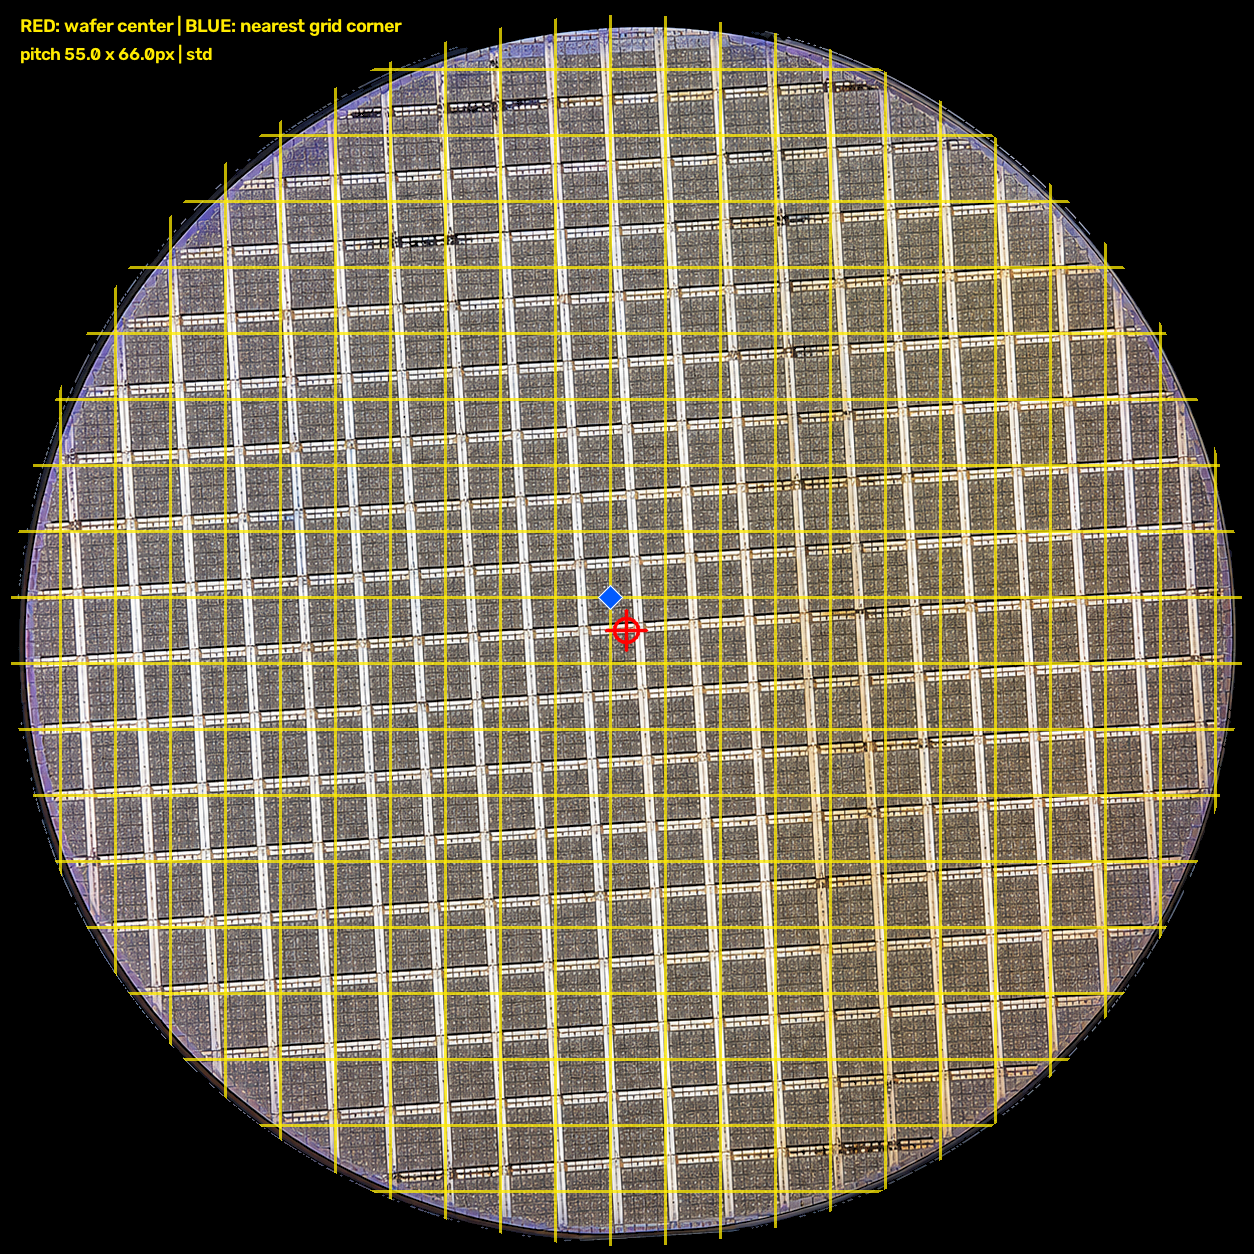
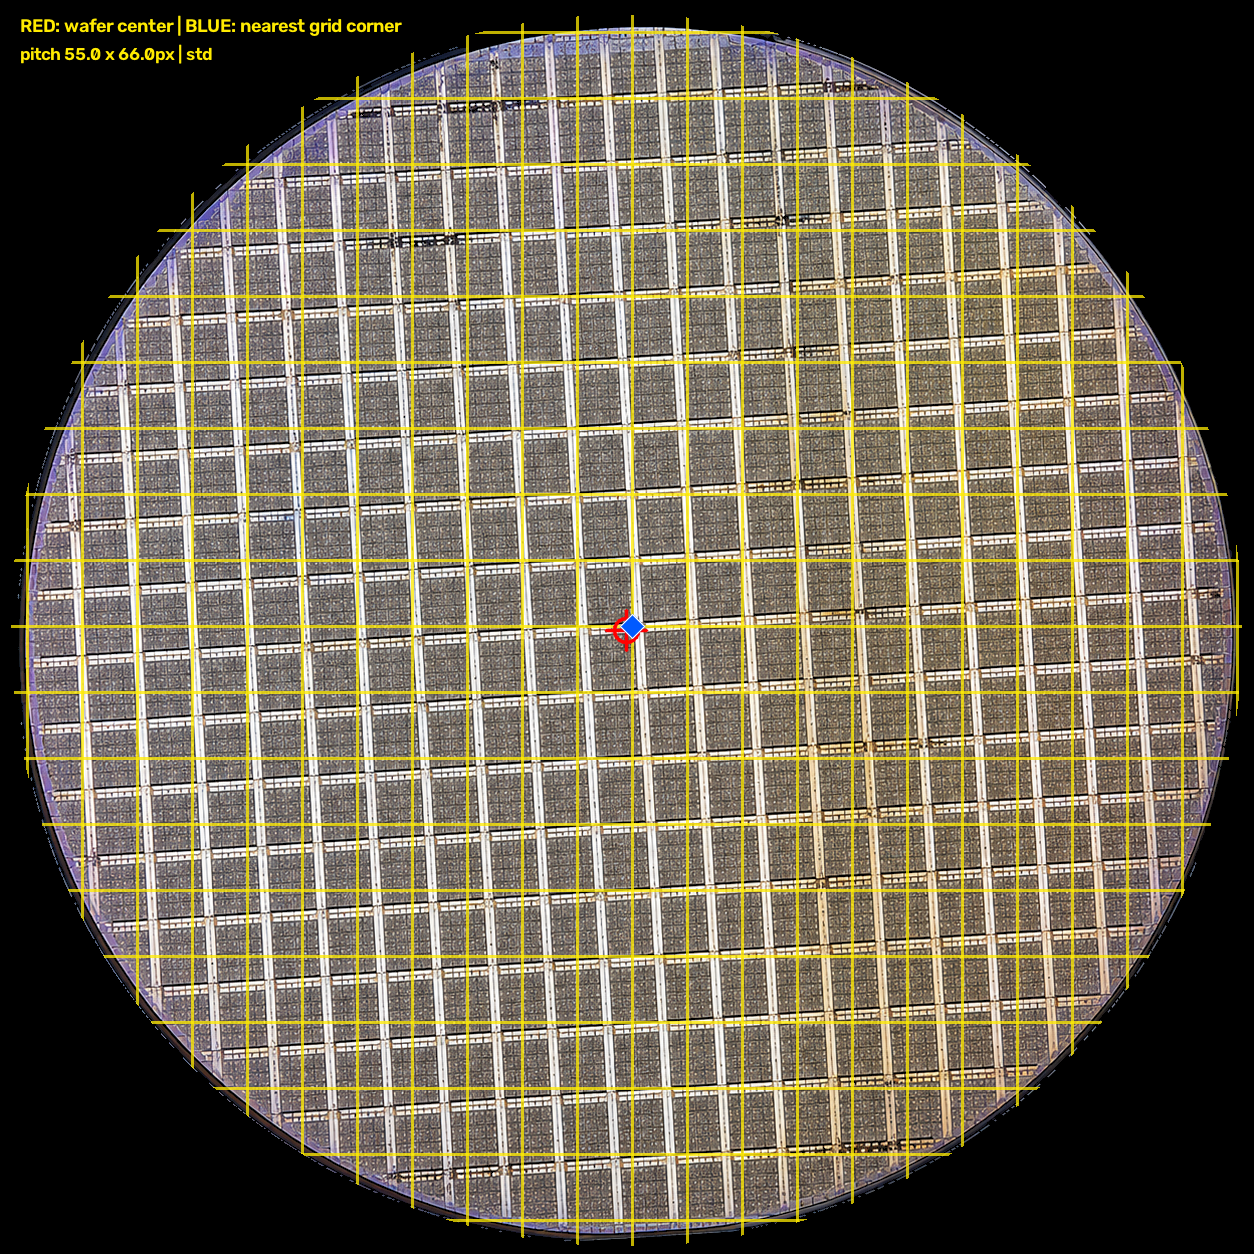
Exclude overlay images from diagnostic inputs

Changed region(s): [[0.0, 0.0, 0.9952, 0.9952]]

diff --git a/make_all_diagnostics.py b/make_all_diagnostics.py
@@ -25,6 +25,8 @@ def _sources() -> Iterable[tuple[str, Path, ColorRobustConfig]]:
     # in each source image's native pixel system.
     base = ColorRobustConfig(min_pitch=25, max_pitch=160, angle_align="none")
     for path in sorted((ROOT / "Img").glob("*.png")):
+        if "_overlay" in path.stem:
+            continue
         # Match the real-image regression bounds: a wide unconstrained search
         # can choose a repeated feature inside a die as a false half-pitch.
         yield "img", path, ColorRobustConfig(min_pitch=60, max_pitch=110)

diff --git a/test_single_file.py b/test_single_file.py
@@ -16,7 +16,6 @@ def main() -> None:
     # Cover every supplied reference image.  The images intentionally span
     # monochrome, coloured, exposed and patterned wafer appearances.
     for path, expected in (
-        (ROOT / "Img" / "portable_bw_overlay.png", (90.0, 90.0)),
         (ROOT / "Img" / "portable_bw_sample.png", (90.0, 90.0)),
         (ROOT / "Img" / "real_casio_top_p092.png", (92.0, 92.0)),
         (ROOT / "Img" / "real_exposed_top_p078.png", (78.0, 78.0)),

diff --git a/make_all_diagnostics_contact_sheet.py b/make_all_diagnostics_contact_sheet.py
@@ -13,7 +13,7 @@ OUTPUT = SOURCE / "all_diagnostics_contact_sheet.jpg"
 
 def main() -> None:
     files = sorted(SOURCE.glob("*__diagnostic.png"))
-    assert len(files) == 19, f"Expected 19 diagnostic files, got {len(files)}"
+    assert files, "No diagnostic files found"
     tile_w, tile_h, label_h, cols = 300, 300, 34, 5
     rows = int(np.ceil(len(files) / cols))
     sheet = np.zeros((rows * (tile_h + label_h), cols * tile_w, 3), np.uint8)

diff --git a/test_nearest_center_corner.py b/test_nearest_center_corner.py
@@ -24,6 +24,8 @@ def _assert_nearest(die_map) -> None:
 def main() -> None:
     # Real supplied wafers: verify each axis is snapped after all refinement.
     for path in sorted((ROOT / "Img").glob("*.png")):
+        if "_overlay" in path.stem:
+            continue
         die_map, _ = build_die_map_robust(
             path, config=ColorRobustConfig(min_pitch=60, max_pitch=110), return_info=True)
         _assert_nearest(die_map)

diff --git a/test_color_robust.py b/test_color_robust.py
@@ -21,7 +21,8 @@ OUT = ROOT / "_color_robust_diagnostics"
 
 def main() -> None:
     OUT.mkdir(exist_ok=True)
-    images = sorted((ROOT / "Img").glob("*.png"))
+    images = [path for path in sorted((ROOT / "Img").glob("*.png"))
+              if "_overlay" not in path.stem]
     assert images, "No input PNGs found under Img"
 
     for path in images:

diff --git a/TestAssets/AllDiagnostics/README.md b/TestAssets/AllDiagnostics/README.md
@@ -4,7 +4,6 @@ Yellow: detected grid; red: wafer centre; blue: nearest grid reference corner.
 
 | Source | Method | Pitch (px) | Centre | Nearest corner | Result |
 | --- | --- | --- | --- | --- | --- |
-| `img/portable_bw_overlay.png` | std | 90.0 x 90.0 | (1498, 1506) | (1531, 1498) | [img__portable_bw_overlay__diagnostic.png](img__portable_bw_overlay__diagnostic.png) |
 | `img/portable_bw_sample.png` | std | 90.0 x 90.0 | (1501, 1503) | (1535, 1499) | [img__portable_bw_sample__diagnostic.png](img__portable_bw_sample__diagnostic.png) |
 | `img/real_casio_top_p092.png` | gradient | 92.0 x 92.0 | (1536, 1536) | (1536, 1541) | [img__real_casio_top_p092__diagnostic.png](img__real_casio_top_p092__diagnostic.png) |
 | `img/real_exposed_top_p078.png` | gradient | 78.0 x 78.0 | (1536, 1536) | (1532, 1536) | [img__real_exposed_top_p078__diagnostic.png](img__real_exposed_top_p078__diagnostic.png) |
